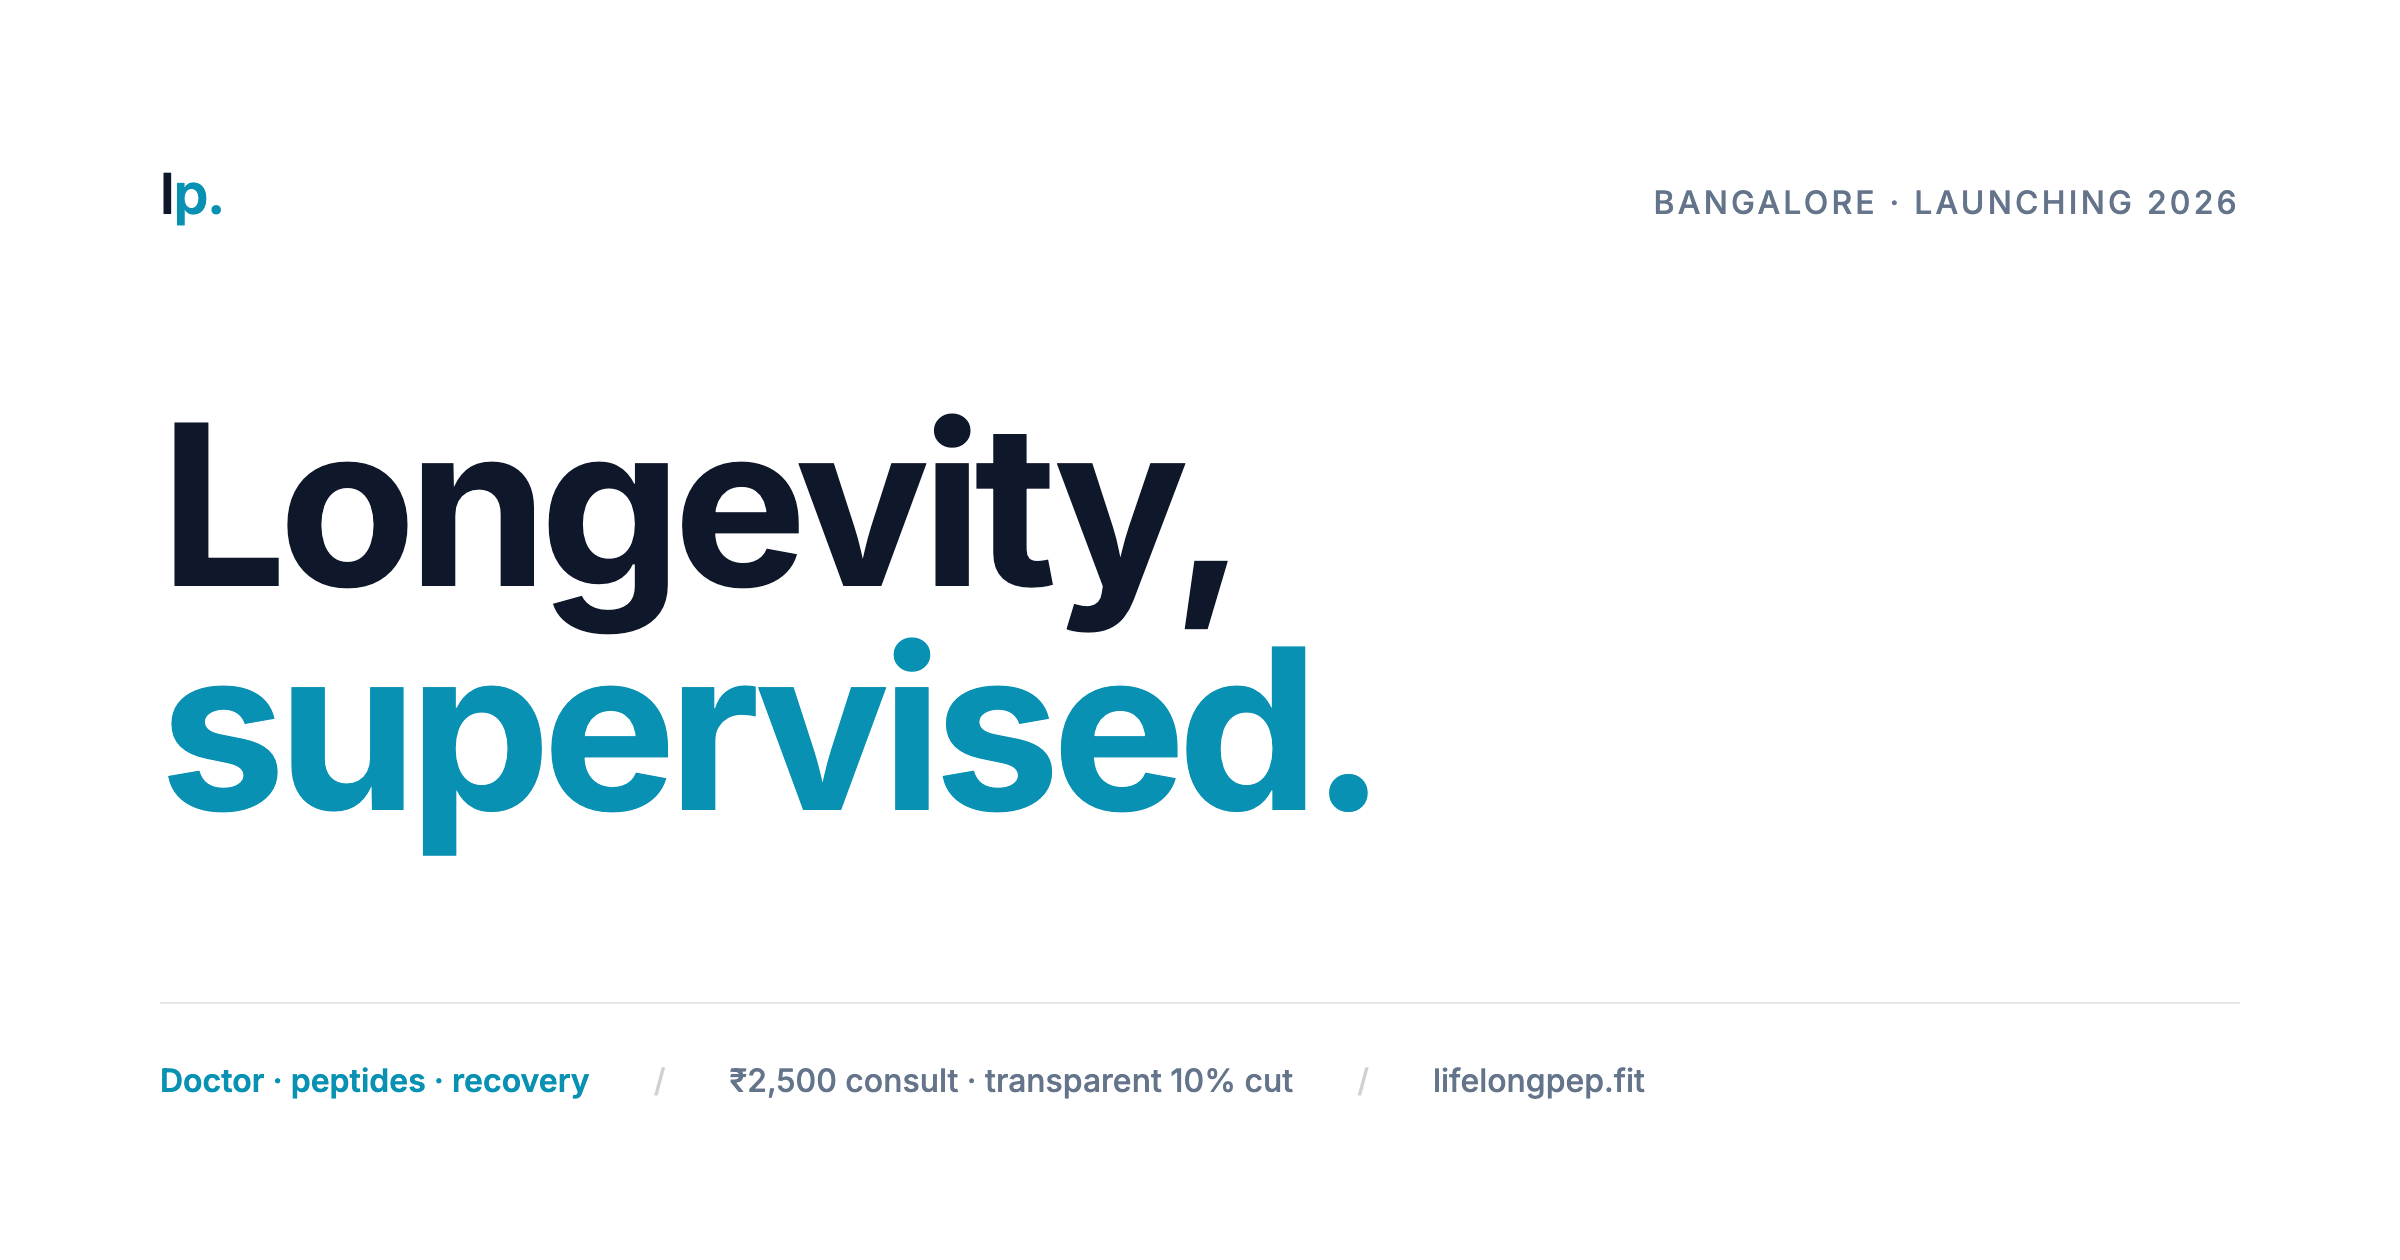
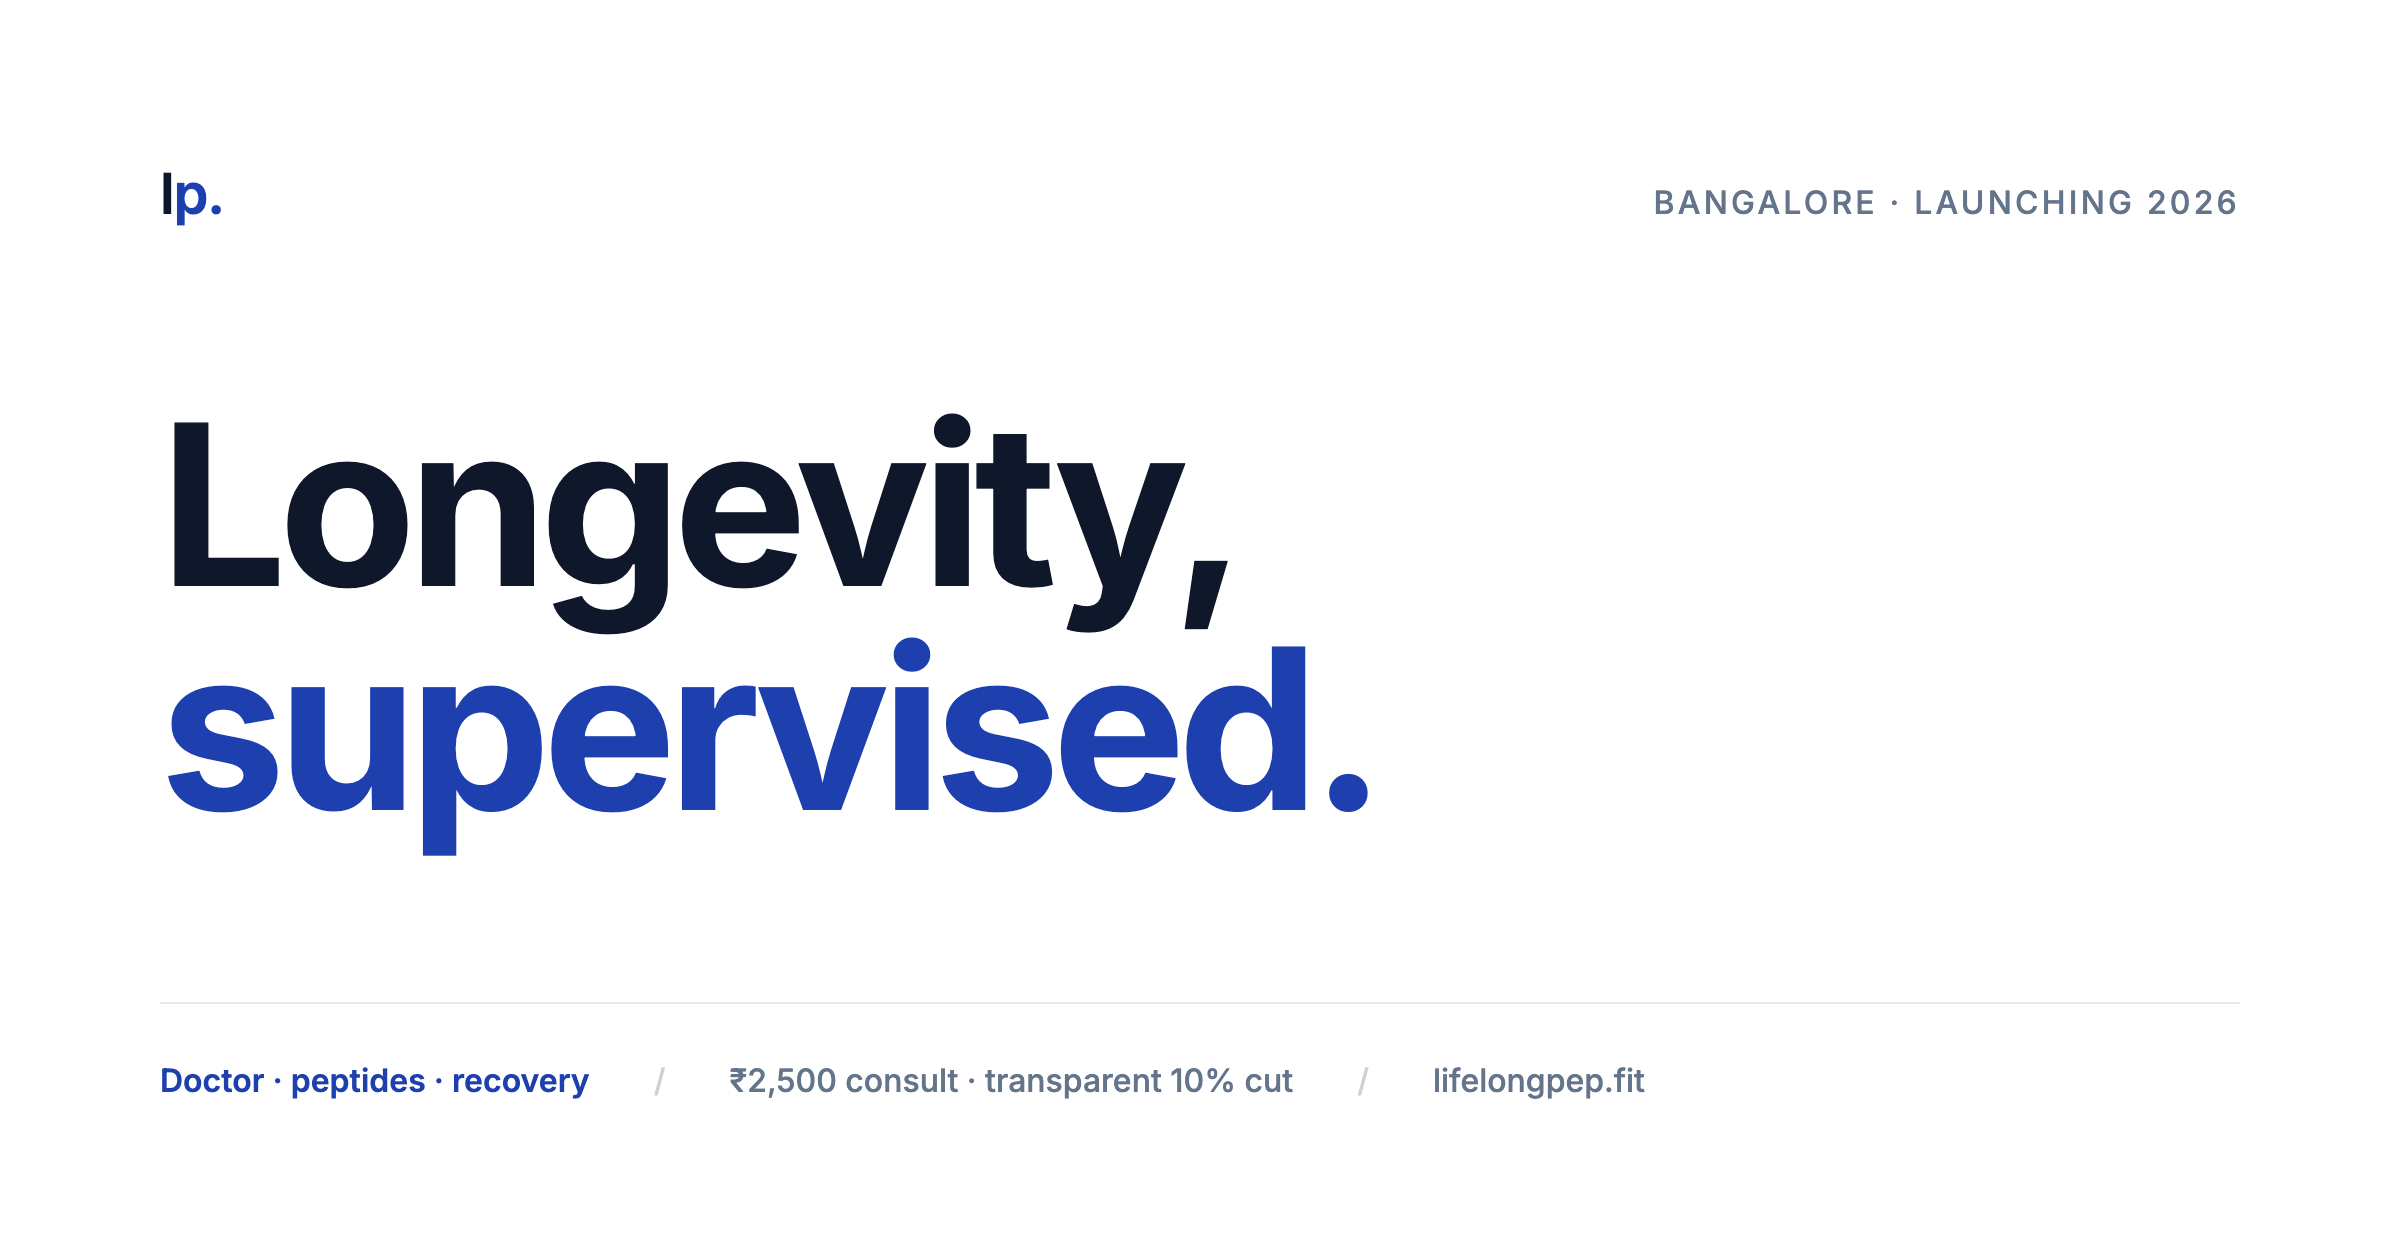
redesign(landing): accent cyan -> darker blue #1E40AF (#5)
Founder direction: 'change the cyan to a darker blue'.

- --accent #0891B2 (cyan-600) -> #1E40AF (blue-800)
- --accent-soft rgba(8,145,178,0.08) -> rgba(30,64,175,0.08)
- theme-color #0891B2 -> #1E40AF
- Dark theme accent #22D3EE -> #60A5FA (blue-400 lifted for AA on slate-900)
- OG image regenerated with new accent
- favicon.svg + apple-touch-icon.png regenerated

Self-contained landing-only change; safe to squash-merge.

Changed region(s): [[0.0625, 0.4952, 0.5938, 0.681], [0.0625, 0.8357, 0.25, 0.8667], [0.0625, 0.1548, 0.0938, 0.1857]]

diff --git a/index.html b/index.html
@@ -13,7 +13,7 @@
 <meta name="robots" content="index, follow, max-image-preview:large, max-snippet:-1">
 
 <!-- Theme + icons -->
-<meta name="theme-color" content="#0891B2">
+<meta name="theme-color" content="#1E40AF">
 <link rel="icon" type="image/svg+xml" href="/favicon.svg">
 <link rel="apple-touch-icon" sizes="180x180" href="/apple-touch-icon.png">
 
@@ -96,8 +96,8 @@
   --muted: #64748B;
   --hairline: rgba(15, 23, 42, 0.10);
   --hairline-strong: rgba(15, 23, 42, 0.22);
-  --accent: #0891B2;
-  --accent-soft: rgba(8, 145, 178, 0.08);
+  --accent: #1E40AF;
+  --accent-soft: rgba(30, 64, 175, 0.08);
   --success: #16A34A;
   --warning: #D97706;
   --error: #DC2626;
@@ -127,8 +127,8 @@
   --muted: #94A3B8;
   --hairline: rgba(241, 245, 249, 0.12);
   --hairline-strong: rgba(241, 245, 249, 0.24);
-  --accent: #22D3EE;
-  --accent-soft: rgba(34, 211, 238, 0.14);
+  --accent: #60A5FA;
+  --accent-soft: rgba(96, 165, 250, 0.14);
   --success: #4ADE80;
   --warning: #FBBF24;
   --error: #F87171;
@@ -141,7 +141,7 @@
     --bg: #0F172A; --surface: #1E293B; --surface-2: #1E293B;
     --ink: #F1F5F9; --muted: #94A3B8;
     --hairline: rgba(241,245,249,0.12); --hairline-strong: rgba(241,245,249,0.24);
-    --accent: #22D3EE; --accent-soft: rgba(34,211,238,0.14);
+    --accent: #60A5FA; --accent-soft: rgba(96,165,250,0.14);
     --success: #4ADE80; --warning: #FBBF24; --error: #F87171;
   }
 }
@@ -1330,6 +1330,7 @@ a:focus-visible { outline: 2px solid var(--accent); outline-offset: 2px; border-
     <a href="#contact">Contact</a>
   </nav>
   <div class="right">
+    <a href="https://book.lifelongpep.fit/" class="ui" style="color: var(--muted); text-decoration: none; font-size: 13px;">Book now</a>
     <a href="#book" class="btn btn-primary" style="padding: 7px 14px; font-size: 13px; min-height: 32px;">Join waitlist</a>
     <button class="theme-toggle" id="themeToggle" aria-label="Toggle dark mode">Dark</button>
   </div>